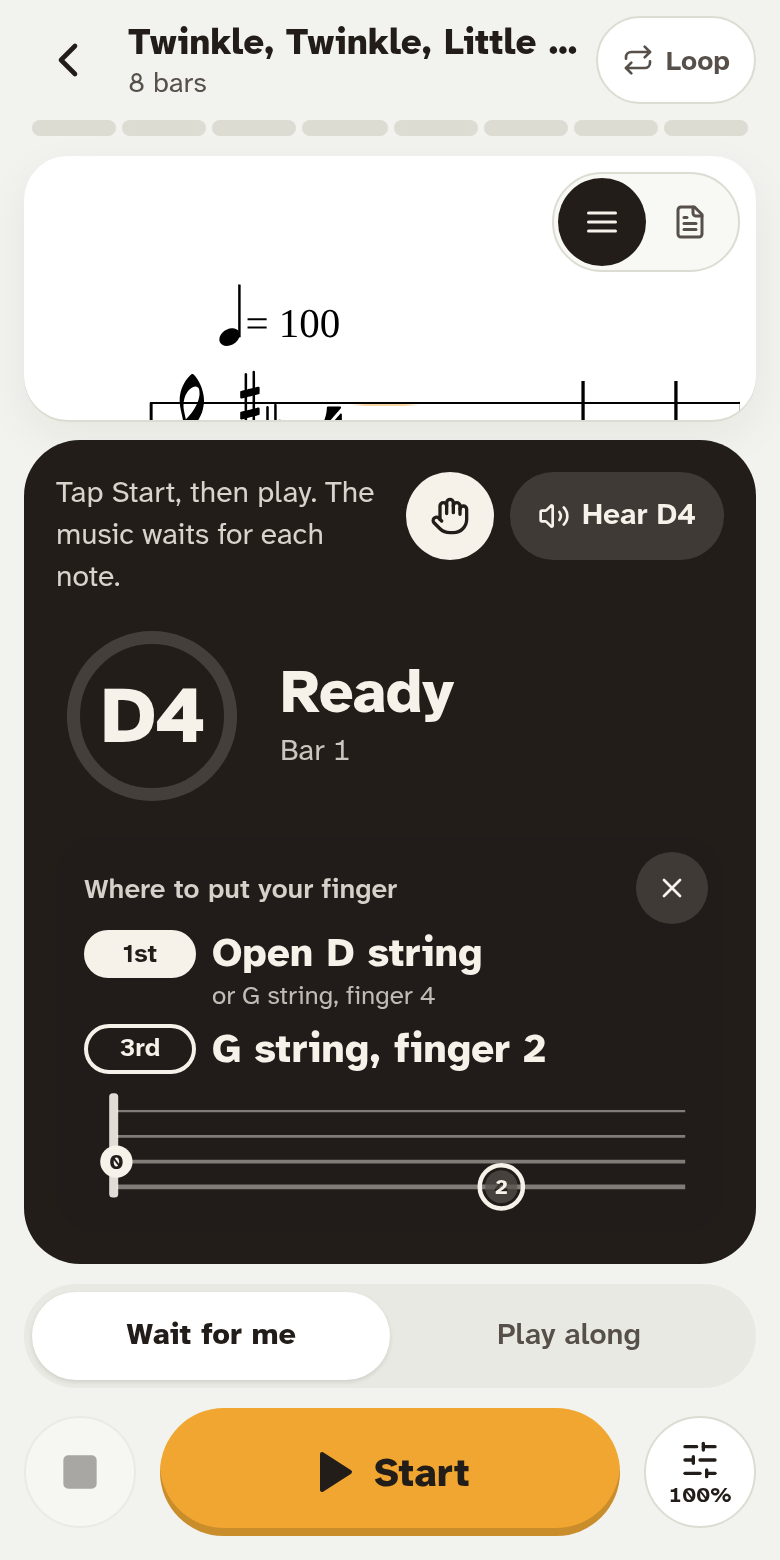
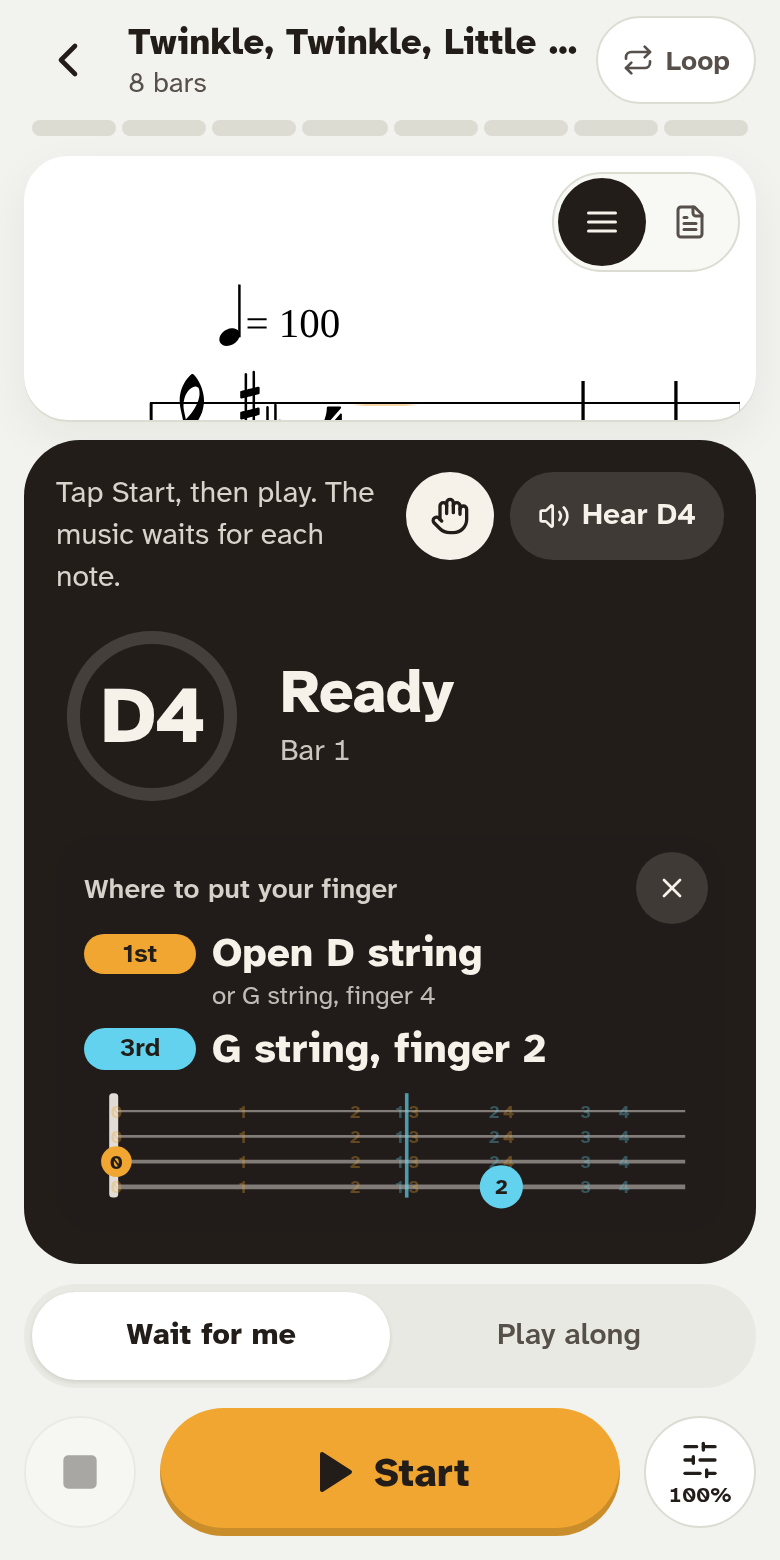
feat(play): fingerboard hint shows a 3rd-position reference line, all fingers faintly, and per-position colours

diff --git a/src/components/play/FingeringHint.tsx b/src/components/play/FingeringHint.tsx
@@ -2,7 +2,9 @@ import { X } from 'lucide-react';
 import { useNoteName } from '../../modules/notation/NotationContext';
 import {
   OPEN_STRING_LABELS,
+  REFERENCE_OFFSET,
   positionLabel,
+  referenceFingers,
   type FingerPlacement,
   type PositionFingering,
 } from '../../modules/fingerboard/fingering';
@@ -30,22 +32,38 @@ const SPAN = 643; // pixels per full string length so that offset 11 lands near 
 const stringY = (s: number) => 56 - 14 * s;
 const offsetX = (n: number) => NUT_X + SPAN * (1 - Math.pow(2, -n / 12));
 
-function Dot({ p, faded }: { readonly p: FingerPlacement; readonly faded: boolean }) {
+const POSITION_COLOR = { 1: 'var(--pos1)', 3: 'var(--pos3)' } as const;
+const GHOST_OPACITY = 0.32;
+const GHOSTS = referenceFingers();
+
+/** A faint finger: just the digit in the position colour, nudged apart where both positions meet. */
+function Ghost({ p }: { readonly p: FingerPlacement }) {
+  const shared = p.offset === 5 || p.offset === 7; // 1st f3/f4 and 3rd f1/f2 land on the same spot
+  const nudge = shared ? (p.position === 3 ? -4 : 4) : 0;
+  return (
+    <text
+      x={offsetX(p.offset) + nudge}
+      y={stringY(p.string) + 3.5}
+      textAnchor="middle"
+      fontSize={10}
+      fontWeight={700}
+      fill={POSITION_COLOR[p.position]}
+      opacity={GHOST_OPACITY}
+    >
+      {p.finger}
+    </text>
+  );
+}
+
+/** One mark. 3rd position is the larger disc, so where both positions share a spot, 1st sits inside 3rd. */
+function Mark({ p, opacity }: { readonly p: FingerPlacement; readonly opacity: number }) {
   const cx = offsetX(p.offset);
   const cy = stringY(p.string);
-  const third = p.position === 3;
+  const r = p.position === 3 ? 12 : 8.5;
   return (
-    <g opacity={faded ? 0.38 : 1}>
-      {third && <circle cx={cx} cy={cy} r={12} fill="none" stroke="var(--bone)" strokeWidth={2.5} />}
-      <circle cx={cx} cy={cy} r={9} fill={third ? 'rgb(34 29 25 / 0.55)' : 'var(--bone)'} />
-      <text
-        x={cx}
-        y={cy + 4}
-        textAnchor="middle"
-        fontSize={12}
-        fontWeight={800}
-        fill={third ? 'var(--bone)' : 'var(--ink)'}
-      >
+    <g opacity={opacity}>
+      <circle cx={cx} cy={cy} r={r} fill={POSITION_COLOR[p.position]} />
+      <text x={cx} y={cy + 4} textAnchor="middle" fontSize={r > 10 ? 12 : 11} fontWeight={800} fill="var(--ink)">
         {p.finger}
       </text>
     </g>
@@ -53,6 +71,10 @@ function Dot({ p, faded }: { readonly p: FingerPlacement; readonly faded: boolea
 }
 
 function FingerboardDiagram({ fingerings }: { readonly fingerings: readonly PositionFingering[] }) {
+  const refX = offsetX(REFERENCE_OFFSET[3]);
+  const alternates = fingerings.flatMap((f) => f.alternates);
+  // Draw 3rd position under 1st so a shared spot reads as an amber dot inside a cyan ring.
+  const primaries = [...fingerings].sort((a, b) => b.position - a.position).map((f) => f.primary);
   return (
     <svg
       className="fing-diagram w-full h-auto"
@@ -73,11 +95,30 @@ function FingerboardDiagram({ fingerings }: { readonly fingerings: readonly Posi
           strokeWidth={[2.6, 2, 1.6, 1.2][s]}
         />
       ))}
-      {fingerings.flatMap((f) =>
-        f.alternates.map((a) => <Dot key={`${f.position}-alt-${a.string}`} p={a} faded />),
-      )}
-      {fingerings.map((f) => (
-        <Dot key={`${f.position}-main`} p={f.primary} faded={false} />
+      {/* Reference for 3rd position: the line where the first finger lands, on every string */}
+      <line
+        data-testid="third-position-line"
+        x1={refX}
+        x2={refX}
+        y1={4}
+        y2={62}
+        stroke="var(--pos3)"
+        strokeWidth={2}
+        strokeOpacity={0.7}
+      />
+      {/* The whole hand, barely there */}
+      <g data-testid="ghost-fingers">
+        {GHOSTS.map((p) => (
+          <g key={`${p.position}-${p.string}-${p.offset}`} data-ghost={`${p.position}`}>
+            <Ghost p={p} />
+          </g>
+        ))}
+      </g>
+      {alternates.map((a) => (
+        <Mark key={`alt-${a.position}-${a.string}`} p={a} opacity={0.4} />
+      ))}
+      {primaries.map((p) => (
+        <Mark key={`main-${p.position}`} p={p} opacity={1} />
       ))}
     </svg>
   );
@@ -86,7 +127,7 @@ function FingerboardDiagram({ fingerings }: { readonly fingerings: readonly Posi
 /**
  * Shown inside the pitch panel in place of the cents meter, so the verdict colour and the
  * target note stay visible. Text first (readable from the music stand), diagram second.
- * Two positions can show at once: 1st as solid dots, 3rd as rings.
+ * Two positions can show at once, told apart by colour (1st amber, 3rd cyan) and size.
  */
 export function FingeringHint({ fingerings, reason, onDismiss }: FingeringHintProps) {
   const noteName = useNoteName();
@@ -132,9 +173,8 @@ export function FingeringHint({ fingerings, reason, onDismiss }: FingeringHintPr
                 <span
                   className="shrink-0 w-[56px] text-center text-[13px] font-bold rounded-full py-0.5"
                   style={{
-                    backgroundColor: f.position === 1 ? 'var(--bone)' : 'transparent',
-                    color: f.position === 1 ? 'var(--ink)' : 'var(--bone)',
-                    border: '2px solid var(--bone)',
+                    backgroundColor: POSITION_COLOR[f.position],
+                    color: 'var(--ink)',
                   }}
                 >
                   {positionLabel(f.position)}

diff --git a/tests/unit/fingering.test.ts b/tests/unit/fingering.test.ts
@@ -1,5 +1,5 @@
 import { describe, it, expect } from 'vitest';
-import { fingeringsFor, OPEN_STRING_MIDI, positionLabel } from '../../src/modules/fingerboard/fingering';
+import { fingeringsFor, OPEN_STRING_MIDI, positionLabel, referenceFingers, REFERENCE_OFFSET } from '../../src/modules/fingerboard/fingering';
 
 const G = 0, D = 1, A = 2, E = 3;
 
@@ -71,5 +71,23 @@ describe('fingeringsFor', () => {
     expect(positions).toEqual([...positions].sort((a, b) => a - b));
     expect(positionLabel(1)).toBe('1st');
     expect(positionLabel(3)).toBe('3rd');
+  });
+
+  it('puts the reference of 3rd position on its first finger and of 1st on the nut', () => {
+    expect(REFERENCE_OFFSET).toEqual({ 1: 0, 3: 5 });
+    for (let st = 0; st < 4; st++) {
+      const f1 = fingeringsFor(OPEN_STRING_MIDI[st] + REFERENCE_OFFSET[3]).find((f) => f.position === 3);
+      expect(f1?.primary).toMatchObject({ string: st, finger: 1, variant: 'normal' });
+    }
+  });
+
+  it('lists every normal finger of both positions on every string, 3rd position first', () => {
+    const all = referenceFingers();
+    // 1st: open + f1..f4 = 5 per string; 3rd: f1..f4 = 4 per string
+    expect(all.filter((p) => p.position === 1)).toHaveLength(20);
+    expect(all.filter((p) => p.position === 3)).toHaveLength(16);
+    expect(all.every((p) => p.variant === 'normal')).toBe(true);
+    expect(all[0].position).toBe(3);
+    expect(all.at(-1)?.position).toBe(1);
   });
 });

diff --git a/src/modules/fingerboard/fingering.ts b/src/modules/fingerboard/fingering.ts
@@ -108,3 +108,27 @@ export function fingeringsFor(midi: number | null | undefined): PositionFingerin
 export function positionLabel(position: PositionId): string {
   return position === 1 ? '1st' : '3rd';
 }
+
+/**
+ * Where the hand's reference sits, as semitones above the open string: the nut for 1st
+ * position, the first finger (a perfect fourth up: D on A, G on D, C on G, A on E) for 3rd.
+ */
+export const REFERENCE_OFFSET: Readonly<Record<PositionId, number>> = { 1: 0, 3: 5 };
+
+/**
+ * Every finger of every position on every string, in its normal place (open string
+ * included for 1st position). Used to draw the whole hand faintly behind the target.
+ * Ordered 3rd position first so that 1st-position marks draw on top where they coincide.
+ */
+export function referenceFingers(): FingerPlacement[] {
+  const all: FingerPlacement[] = [];
+  for (const position of [3, 1] as const) {
+    for (let s = 0; s < OPEN_STRING_MIDI.length; s++) {
+      for (const [offsetText, entry] of Object.entries(TABLES[position])) {
+        if (entry.variant !== 'normal') continue;
+        all.push({ position, string: s as StringIndex, finger: entry.finger, variant: 'normal', offset: Number(offsetText) });
+      }
+    }
+  }
+  return all;
+}

diff --git a/tests/unit/play-ui.test.tsx b/tests/unit/play-ui.test.tsx
@@ -106,6 +106,19 @@ describe('FeedbackPanel fingering hint', () => {
     expect(screen.getByTestId('target-note')).toBeInTheDocument();
   });
 
+  it('draws the 3rd-position reference line, every finger faintly, and colours the positions', () => {
+    renderPanel(null);
+    fireEvent.click(screen.getByRole('button', { name: 'Show finger placement' }));
+    const hint = screen.getByRole('region', { name: 'Fingering hint' });
+    expect(within(hint).getByTestId('third-position-line')).toBeInTheDocument();
+    const ghosts = within(hint).getByTestId('ghost-fingers');
+    expect(ghosts.querySelectorAll('[data-ghost="1"]')).toHaveLength(20);
+    expect(ghosts.querySelectorAll('[data-ghost="3"]')).toHaveLength(16);
+    // Position tags carry the position colours
+    expect(within(hint).getByText('1st')).toHaveStyle({ backgroundColor: 'var(--pos1)' });
+    expect(within(hint).getByText('3rd')).toHaveStyle({ backgroundColor: 'var(--pos3)' });
+  });
+
   it('shows an offered hint with its reason and can be dismissed for this note', () => {
     renderPanel(null, running({ hint: stuck }));
     const hint = screen.getByRole('region', { name: 'Fingering hint' });

diff --git a/src/index.css b/src/index.css
@@ -47,6 +47,8 @@
   --tune: #12905a;        /* in tune */
   --flat: #2c66d8;        /* too low: go higher */
   --sharp: #d1335d;       /* too high: go lower */
+  --pos1: #f0a630;        /* 1st position marks (amber) */
+  --pos3: #63d2ee;        /* 3rd position marks (cyan) */
   --bone: #f6f2ea;        /* text on ebony */
 
   --font-ui: 'Atkinson Hyperlegible Next', system-ui, -apple-system, 'Segoe UI', sans-serif;

diff --git a/docs/ideas/violin-fingerboard-hints.md b/docs/ideas/violin-fingerboard-hints.md
@@ -4,9 +4,9 @@
 How might we show a violinist, for the note being asked of them, which string and finger it is in the positions they play, so that a note name (Do Ré Mi or A B C) turns into "that's the 3rd finger here"?
 
 ## What was built
-- **Lookup, not auto-fingering** (`src/modules/fingerboard/fingering.ts`): a note's MIDI number minus each open string gives an offset, and a table for 1st and 3rd position turns it into a finger and its low/normal/high/stretched variant. Both positions are shown at once (1st solid, 3rd ring); no selector, no "not in this position" dead end.
+- **Lookup, not auto-fingering** (`src/modules/fingerboard/fingering.ts`): a note's MIDI number minus each open string gives an offset, and a table for 1st and 3rd position turns it into a finger and its low/normal/high/stretched variant. Both positions are shown at once, told apart by colour (1st amber, 3rd cyan) and size (3rd is the larger disc, so a shared spot reads as amber inside cyan); no selector, no "not in this position" dead end.
 - **Hint tracker** (`src/modules/practice-coach/hintTracker.ts`): pure, driven only by audio timestamps. Two triggers per target note in Wait-for-Me: stuck for 2 s, or a steady wrong note (>70 cents for 300 ms). Guards: ring-through of the previous note after a lock, octave/twelfth/double-octave detector errors, glides, short dropouts.
-- **Display**: text first (string + finger, large), a small fingerboard under it, in place of the cents meter inside the pitch panel, so the target note and verdict stay visible. Closes on lock or tap. A hand button next to "Hear <note>" shows it on request (pause / between attempts).
+- **Display**: text first (string + finger, large), a small fingerboard under it (a cyan reference line where the 3rd-position first finger lands, plus every finger of both positions at very low opacity behind the target), in place of the cents meter inside the pitch panel, so the target note and verdict stay visible. Closes on lock or tap. A hand button next to "Hear <note>" shows it on request (pause / between attempts).
 - **Controls**: Settings has a hints on/off switch. Hints are off while the reference drone plays (the mic would hear the drone as the player).
 - **Counters** (local only): each note that took 2 s or more to lock is recorded with hints on/off, so "do hints help me recover faster?" can be answered from Settings after a week.
 
